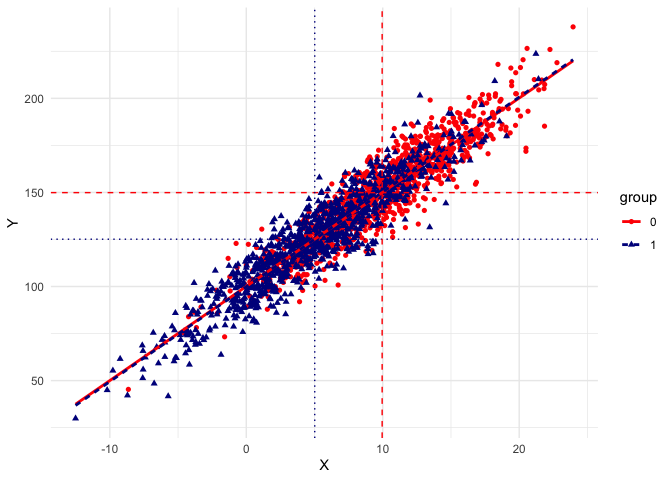
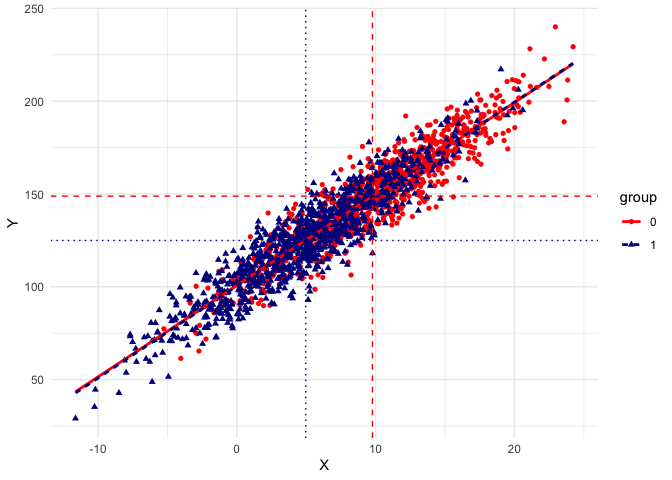
update

diff --git a/README.md b/README.md
@@ -31,15 +31,22 @@ library(oaxacad)
 The function `oaxaca_data` allows a simple way to simulate data for
 testing the Oaxaca decomposition.
 
-We have two groups (A and B, or 0 and 1).
+We have two groups (A and B, or 0 and 1), and an outcome $Y$.
 
-Imagine that we want a dataset with a gap only due to observed
-characteristics (`X`). We set the value for group A with `xA_avr = 10`
-and the values for group B with `xB_avr = 5`.
+Imagine that we want a simulated dataset with a *gap* that is only due
+to **observed characteristics** (`X`).
+
+The function allows to set one variable for observed characteristics.
+The variable is normally distributed and the user can set the mean and
+the sd.
+
+In the function `oaxaca_data`, we can set the mean value of
+characteristics for group A with `xA_avr = 10` and the mean value for
+group B with `xB_avr = 5`.
 
 The intercepts between the two groups are the same,
 `interceptA_avr = 100`, `interceptB_avr = 100`, and the coefficients
-(the regression’ $$\beta$$) are the same `betaA = 5`, `betaB = 5`.
+(the regression’ $\beta$) are the same `betaA = 5`, `betaB = 5`.
 
 ``` r
 output = oaxaca_data(interceptA_avr = 100, interceptB_avr = 100, betaA = 5, betaB = 5, xA_avr = 10, xB_avr = 5)
@@ -54,3 +61,6 @@ output$fig
     ## `geom_smooth()` using formula = 'y ~ x'
 
 ![](README_files/figure-gfm/unnamed-chunk-4-1.png)<!-- -->
+
+The $X$ axis shows the difference in observed characteristics (`X`), and
+on the $Y$ axis the gap in the outcome `Y`.
